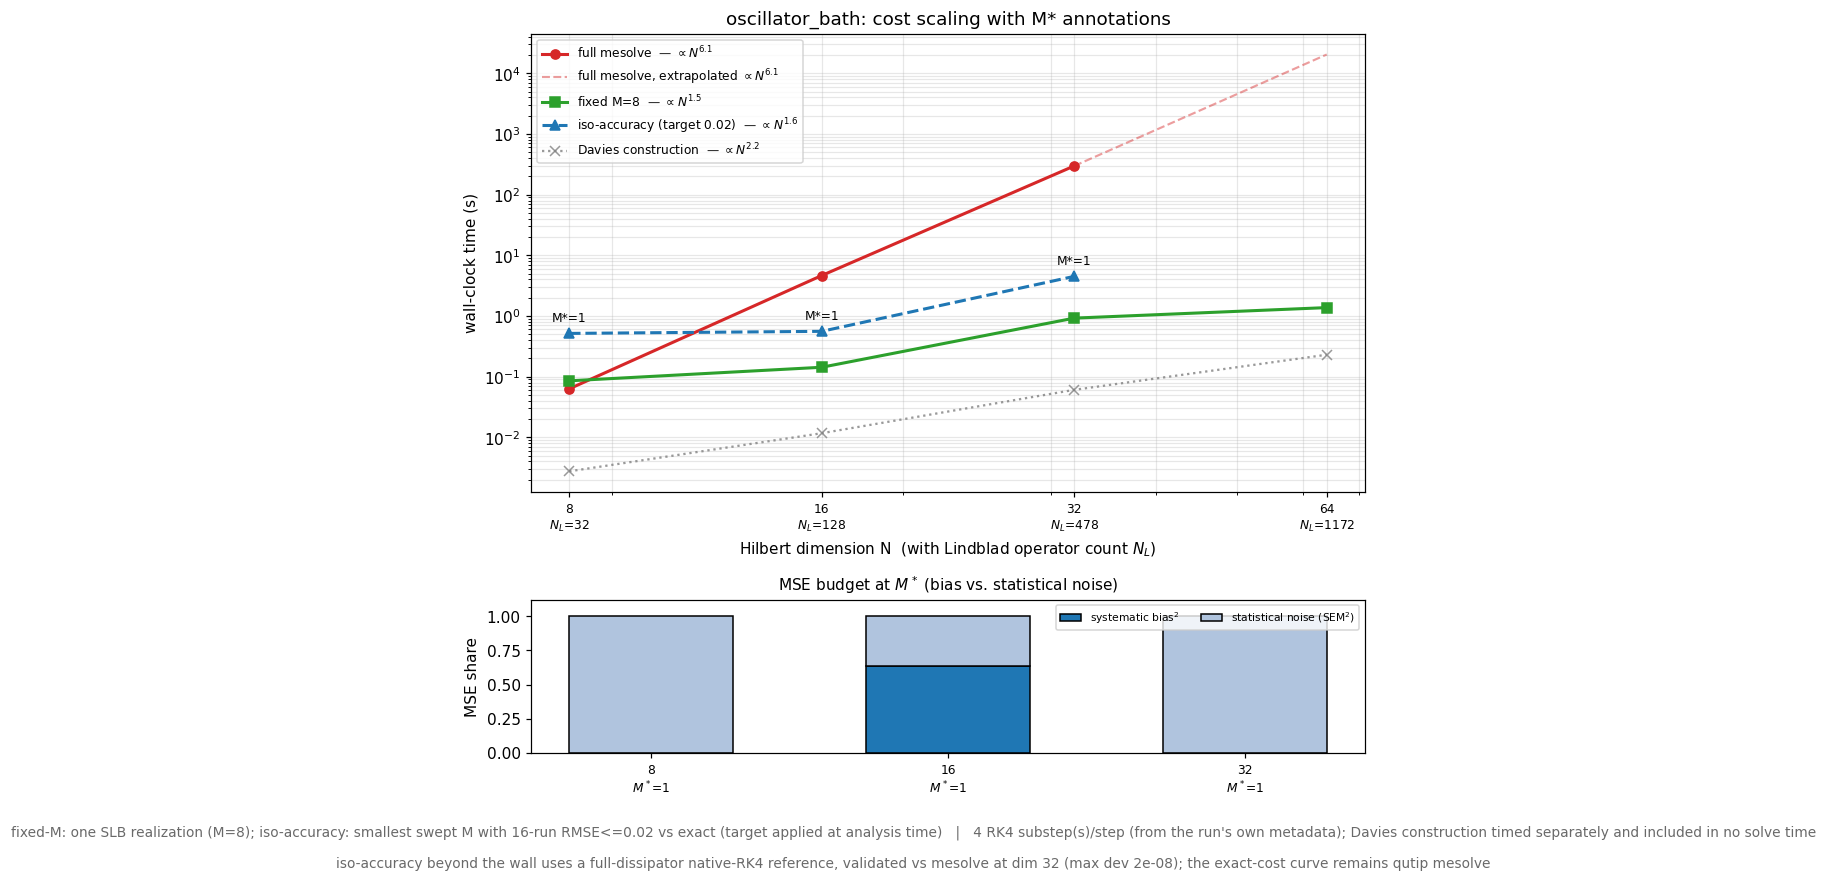
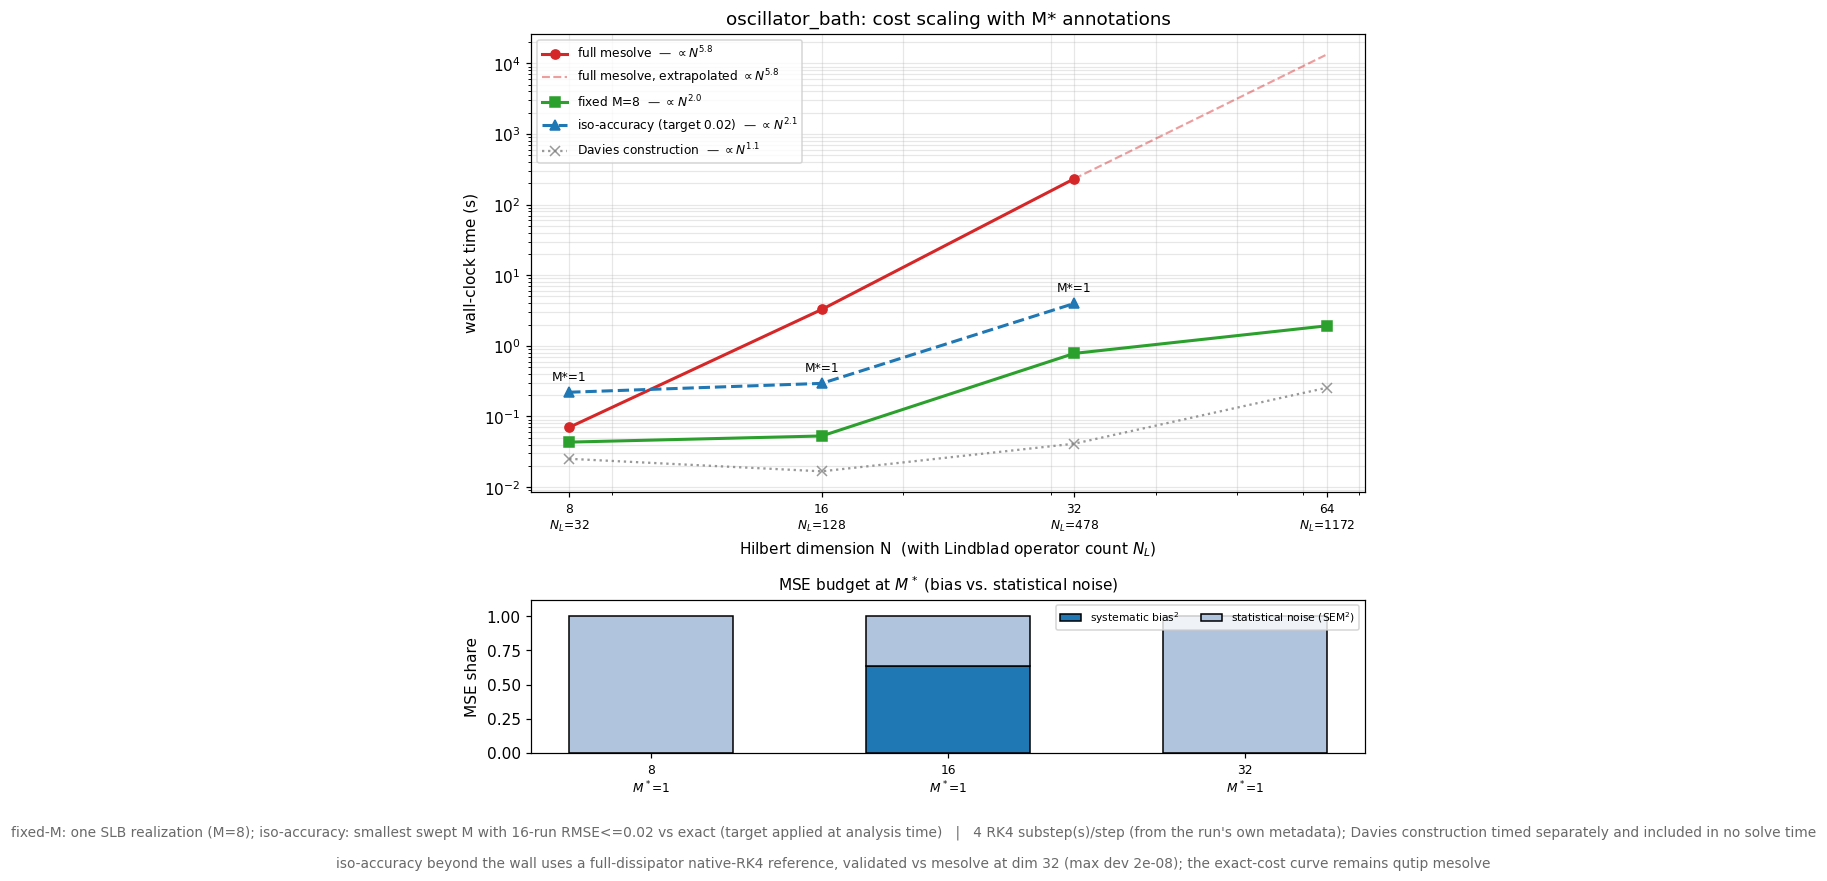
R2: guarded oscillator data; soft-divergence documented; exporter handles diverged rows

diff --git a/benchmarks/run_cost_scaling.py b/benchmarks/run_cost_scaling.py
@@ -99,7 +99,17 @@ def sweep_m(H, rho0, c_ops, reference, n_l):
 
     Stops once RMSE <= SWEEP_STOP_RMSE or M reaches n_l (bundles cannot exceed
     the number of physical operators; grid values are capped and deduplicated).
+
+    SOFT-DIVERGENCE GUARD: bundling concentrates the dissipative weight of all
+    N_L operators into M bundles, so the realized SLB generator is stiffer
+    than the physical one -- increasingly so at small M. Near the RK4
+    stability edge this produces samples that grow exponentially WITHOUT ever
+    becoming non-finite (so the solver's own instability check cannot fire).
+    Such runs are numerically meaningless; the guard detects them by magnitude
+    against the reference scale, records the fact instead of the garbage
+    numbers, and ends the sweep for this dimension.
     """
+    guard = 100.0 * (1.0 + float(np.max(np.abs(reference))))
     rows, seen = [], set()
     for m in M_SWEEP_GRID:
         m_eff = min(m, n_l)
@@ -107,6 +117,14 @@ def sweep_m(H, rho0, c_ops, reference, n_l):
             continue
         seen.add(m_eff)
         samples, dt = slb_estimate(H, rho0, c_ops, m_eff, N_ACC)
+        if (not np.isfinite(samples).all()
+                or float(np.max(np.abs(samples))) > guard):
+            print(f"      M={m_eff:4d}  SOFT DIVERGENCE: samples reach "
+                  f"{float(np.nanmax(np.abs(samples))):.1e} (bundled generator "
+                  f"stiffer than the physical one at small M) -- sweep ends, "
+                  f"no accuracy data at this dimension")
+            rows.append({"M": m_eff, "diverged": True, "cost": dt})
+            break
         rmse, rmse_std = tavg_rmse_jackknife(samples, reference)
         # MSE budget of this estimate (same decomposition as Result 4's error
         # budget): observed MSE of the plotted mean, and the statistical part

diff --git a/benchmarks/export_csv.py b/benchmarks/export_csv.py
@@ -154,7 +154,11 @@ def export_cost_scaling(doc, stem):
 
     fh, w = _writer(CSV_DIR / f"{stem}_summary.csv",
                     ["system", "dim", "n_l", "t_davies_s", "t_full_s",
-                     "t_slb_fixed_s", "M", "rmse", "rmse_std", "sweep_cost_s"])
+                     "t_slb_fixed_s", "M", "rmse", "rmse_std", "sweep_cost_s",
+                     "mse", "sem_sq", "diverged"])
+    def _g(row, key):
+        v = row.get(key)
+        return "" if v is None else f"{v:.6g}"
     for p in doc["points"]:
         base = [system, p["dim"], p["n_l"],
                 "" if p.get("t_davies") is None else f"{p['t_davies']:.6g}",
@@ -162,12 +166,12 @@ def export_cost_scaling(doc, stem):
                 f"{p['t_slb_fixed']:.6g}"]
         if p["m_sweep"]:
             for row in p["m_sweep"]:
-                w.writerow(base + [row["M"], f"{row['rmse']:.6g}",
-                                   "" if row["rmse_std"] is None
-                                   else f"{row['rmse_std']:.6g}",
-                                   f"{row['cost']:.6g}"])
+                w.writerow(base + [row["M"], _g(row, "rmse"),
+                                   _g(row, "rmse_std"), _g(row, "cost"),
+                                   _g(row, "mse"), _g(row, "sem_sq"),
+                                   "yes" if row.get("diverged") else ""])
         else:
-            w.writerow(base + ["", "", "", ""])
+            w.writerow(base + [""] * 7)
     fh.close()
     return 2
 

diff --git a/benchmarks/plot_cost_scaling.py b/benchmarks/plot_cost_scaling.py
@@ -33,7 +33,7 @@ def derive_iso(points, target):
     for p in points:
         row = (np.nan, np.nan, np.nan, np.nan, np.nan)
         for e in p["m_sweep"] or []:
-            if e["rmse"] is not None and e["rmse"] <= target:
+            if e.get("rmse") is not None and e["rmse"] <= target:
                 mse, sem_sq = e.get("mse"), e.get("sem_sq")
                 if mse is None or sem_sq is None:
                     b2 = s2 = np.nan
@@ -51,7 +51,7 @@ def fixed_m_stats(points, m_rep):
     for p in points:
         hit = next((e for e in p["m_sweep"] or []
                     if e["M"] == min(m_rep, p["n_l"])), None)
-        if hit is None or hit["rmse"] is None:
+        if hit is None or hit.get("rmse") is None:
             rmse.append(np.nan); bias.append(np.nan); sem.append(np.nan)
         else:
             fluct = hit["rmse_std"] * np.sqrt(n_acc)

diff --git a/benchmarks/probe.py b/benchmarks/probe.py
@@ -1,0 +1,8 @@
+import json
+d = json.load(open('data/cost_scaling_oscillator_bath.json'))
+p = [q for q in d['points'] if q['dim'] == 64][0]
+print('ref:', p['reference_method'], ' t_native:', p['t_native_ref'])
+print('validation:', d['native_ref_validation'])
+for r in p['m_sweep']:
+    print('M=%4d  RMSE=%.3e (+/-%.1e)  mse=%.3e  sem2=%.3e'
+          % (r['M'], r['rmse'], r['rmse_std'], r['mse'], r['sem_sq']))

diff --git a/benchmarks/BENCHMARKS.md b/benchmarks/BENCHMARKS.md
@@ -523,7 +523,16 @@ anharmonic ladder's frequencies grow like $n^2$, and past dim 64 the
 fixed-step RK4 at the disclosed substep count is no longer stable. The
 benchmark ends the curve there and records it (`stiff_dim` in the data)
 rather than silently raising substeps at the last point — a fixed-step cost
-curve is only slope-comparable at uniform substeps. Two costs that
+curve is only slope-comparable at uniform substeps. The oscillator's
+*accuracy* sweep ends one octave earlier still, for a subtler reason worth
+stating: bundling concentrates the dissipative weight of all $N_L$ operators
+into $M$ bundles, so the realized SLB generator is **stiffer than the
+physical one**, increasingly so at small $M$. Just below the hard stability
+cliff this produces samples that grow exponentially without ever becoming
+non-finite — numerically meaningless yet invisible to a finiteness check.
+The sweep detects this soft divergence by magnitude against the reference
+scale, records it (`diverged` rows in the data), and ends the accuracy curve
+honestly at the last stable size. Two costs that
 must not be blurred are shown separately: the dotted curve is the one-time
 **Davies construction** of the $N_L$ operators (an eigendecomposition plus $N_L$
 operator assemblies) — cheap in absolute terms here, but scaling with its own
@@ -568,8 +577,9 @@ slope: measured against it, SLB's fixed-$M$ point at the largest
 dimension shown is cheaper by four to five orders of magnitude (chain, dim
 256: an extrapolated $\sim\!3$ weeks versus a measured minute) — this, not
 the sub-wall region where both methods are cheap, is the figure's claim. The required
-$M^\ast$ grows with $N$ (the annotations on the iso-accuracy curve —
-roughly $M^\ast\propto N$ on the chain), so this curve is steeper than fixed-$M$:
+$M^\ast$ grows with $N$ but *sublinearly*, and appears to saturate: the
+chain's ladder runs $1\to8\to16\to32\to32$, with the dim-64 point (reached
+via the native reference) needing no more bundles than dim 32, so this curve is steeper than fixed-$M$:
 holding accuracy costs about one extra power of $N$. But it still sits far below
 the exact solver, so SLB's advantage survives the honest accounting. It is
 computable only up to the reference wall, since tuning $M^\ast$ needs the exact
